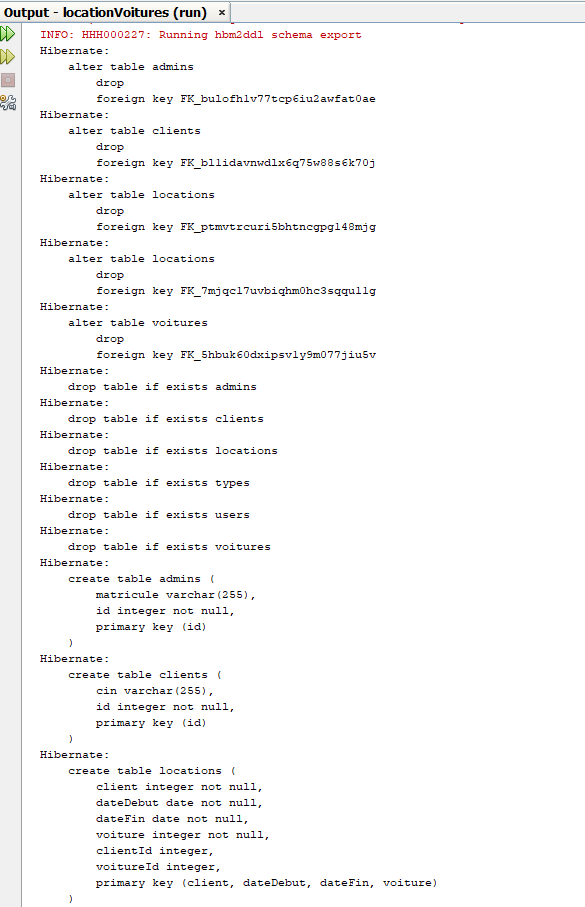
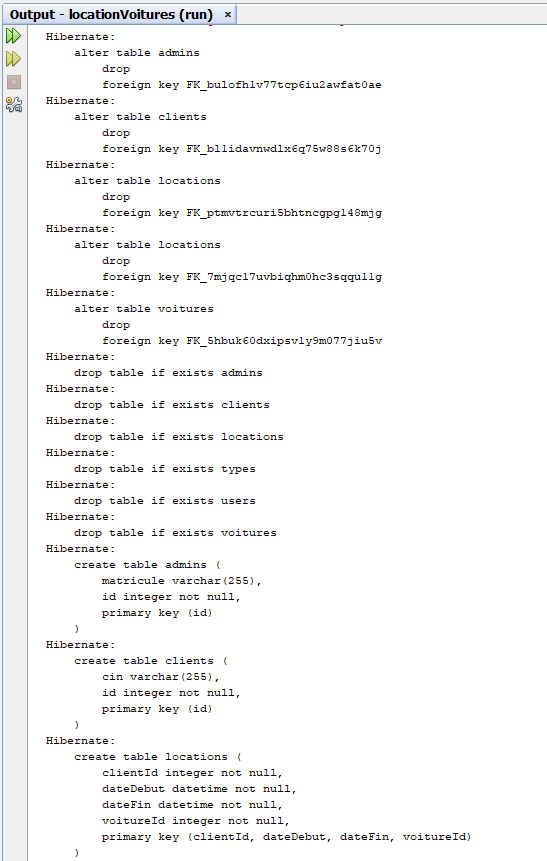
filtre

Changed region(s): [[0.0, 0.0, 1.0, 1.0]]

diff --git a/src/java/entities/LocationPK.java b/src/java/entities/LocationPK.java
@@ -7,6 +7,7 @@ package entities;
 
 import java.io.Serializable;
 import java.util.Date;
+import javax.persistence.Column;
 import javax.persistence.Embeddable;
 import javax.persistence.Temporal;
 import javax.persistence.TemporalType;
@@ -18,15 +19,17 @@ import javax.persistence.TemporalType;
 @Embeddable
 public class LocationPK implements Serializable {
 
-    @Temporal(TemporalType.DATE)
-    private Date dateDebut;
-
-    @Temporal(TemporalType.DATE)
-    private Date dateFin;
-
+    @Column(name = "clientId")
     private int client;
+
+    @Column(name = "voitureId")
     private int voiture;
 
+    @Column(name = "dateDebut")
+    private Date dateDebut;
+
+    @Column(name = "dateFin")
+    private Date dateFin;
     public LocationPK() {
     }
 

diff --git a/src/java/test/Test.java b/src/java/test/Test.java
@@ -70,7 +70,7 @@ public class Test {
 
             System.out.println("Clients ayant loué une voiture de marque " + marqueCible + " :");
             for (Client c : clients) {
-                System.out.println(c.getNom() + " " + c.getPrenom() + " (" + c.getEmail() + ")");
+                System.out.println(c.getNom() + " " + c.getPrenom());
             }
             String cinCible = "EE123456";
             String hql2 = "SELECT DISTINCT l.voiture FROM Location l WHERE l.client.cin = :cin";

diff --git a/src/java/entities/Location.java b/src/java/entities/Location.java
@@ -25,6 +25,7 @@ public class Location {
 
     @EmbeddedId
     private LocationPK pK;
+
     @Temporal(TemporalType.DATE)
     @Column(insertable = false, updatable = false)
     private Date dateDebut;

diff --git a/README.md b/README.md
@@ -74,8 +74,10 @@ Le but de ce projet est de créer une solution complète et intégrée pour la g
 ---
 
 ## **Exécution des tests** 🧪
-
-![Exécution](./images/c1.png)  
-![Exécution](./images/c2.png)  
-![Exécution](./images/c3.png)
-![Exécution](./images/c4.png)
+### **Création de tables**
+![Création de tables](./images/c1.png)  
+![Création de tables](./images/c2.png)  
+### **Insertion de données**
+![Insertion](./images/insertion.png)
+### **Filtrage**
+![Filtre](./images/filtre.png)
